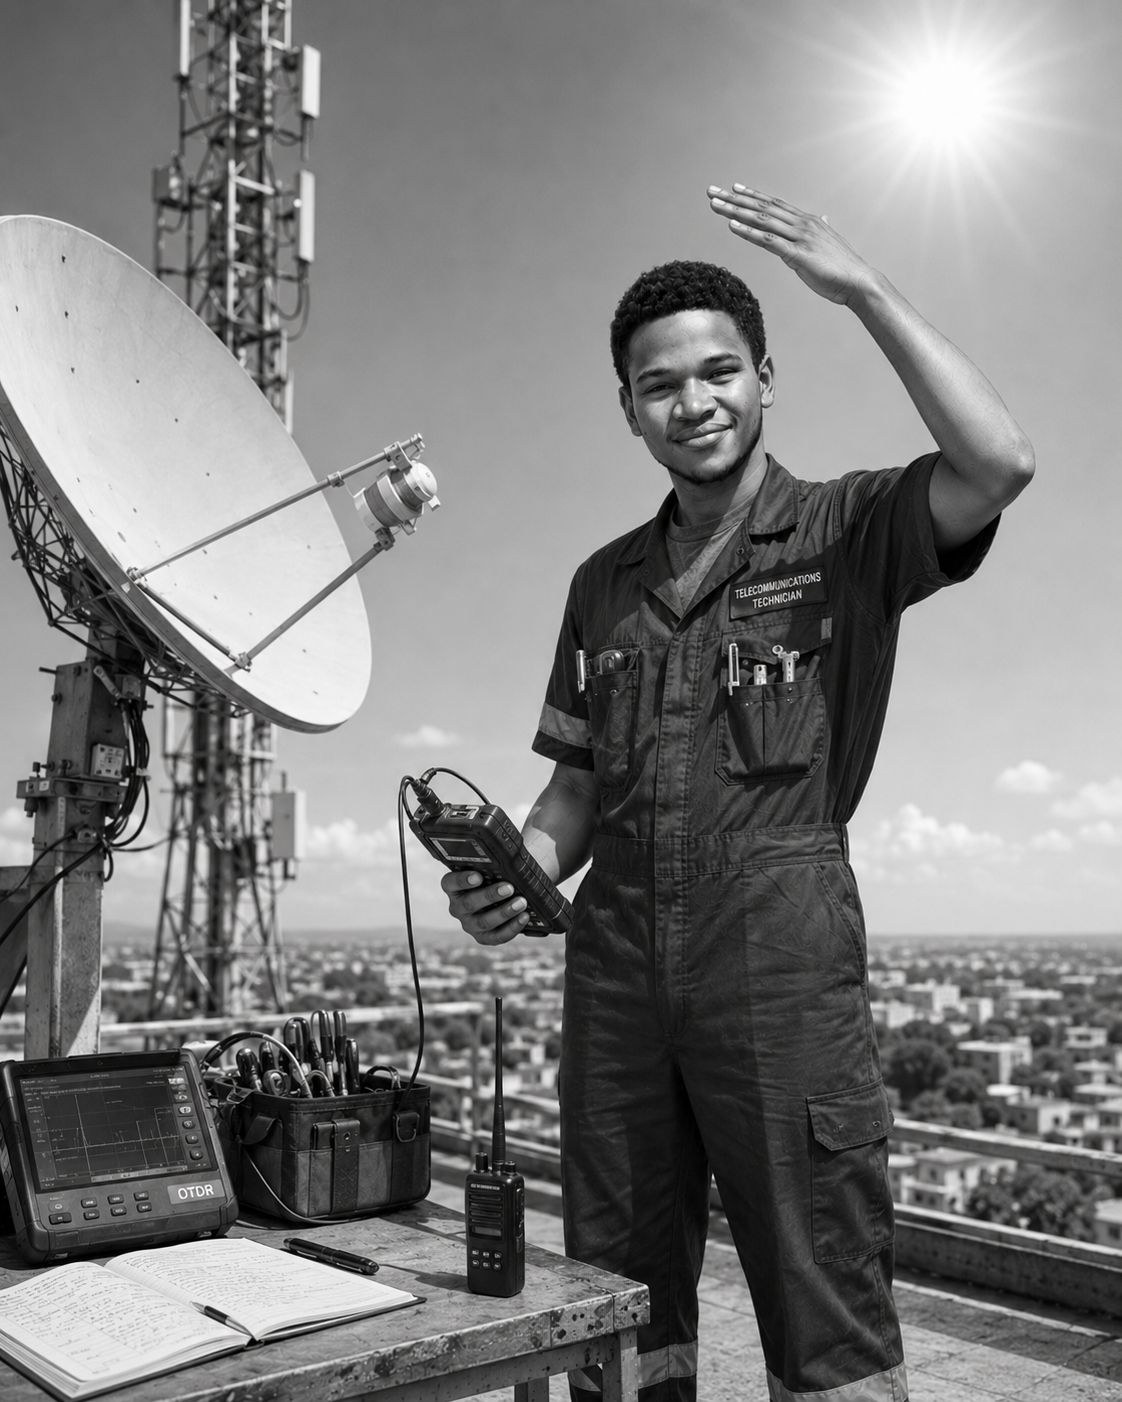
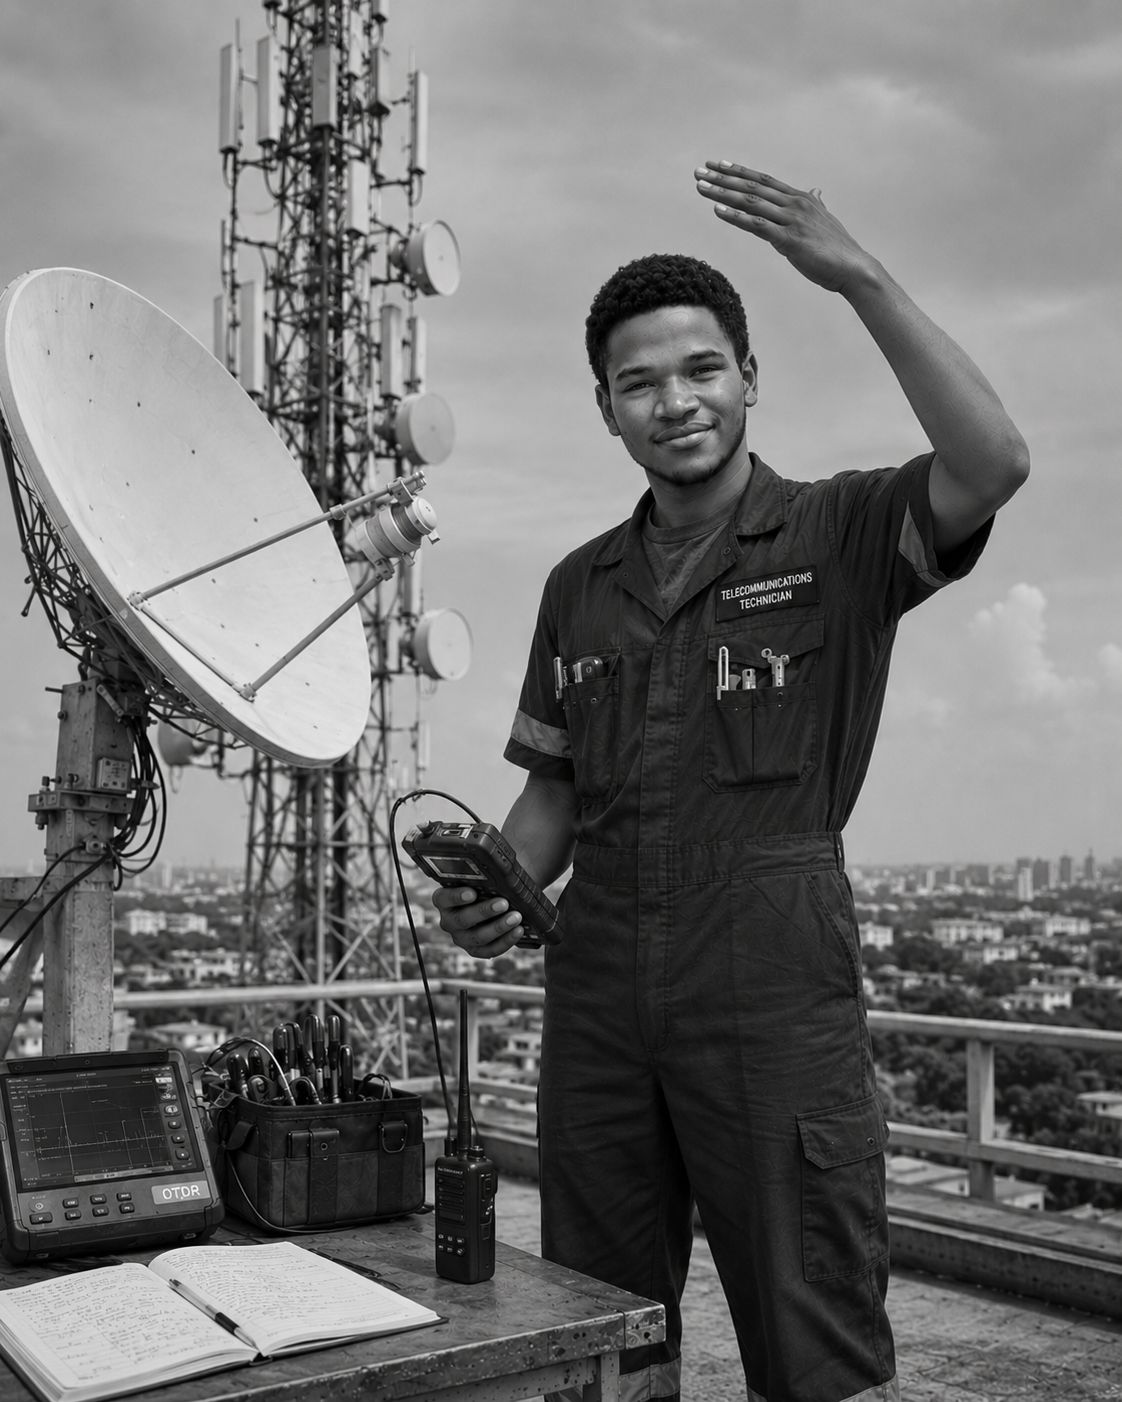
updated the image and phone number

diff --git a/src/TeleEus.jsx b/src/TeleEus.jsx
@@ -618,7 +618,7 @@ export default function TeleEusWebsite() {
             {/* Contact Details */}
             <div style={{ display: "flex", flexDirection: "column", gap: 16 }}>
               {[
-                { icon: <Phone size={16} color="#3B82F6"/>, text: "+254 712 345 678" },
+                { icon: <Phone size={16} color="#3B82F6"/>, text: "+254 710317319" },
                 { icon: <Mail  size={16} color="#3B82F6"/>, text: "hello@teleeus.com" },
                 { icon: <MapPin size={16} color="#3B82F6"/>, text: "Nairobi, Kenya" },
               ].map((c, i) => (
